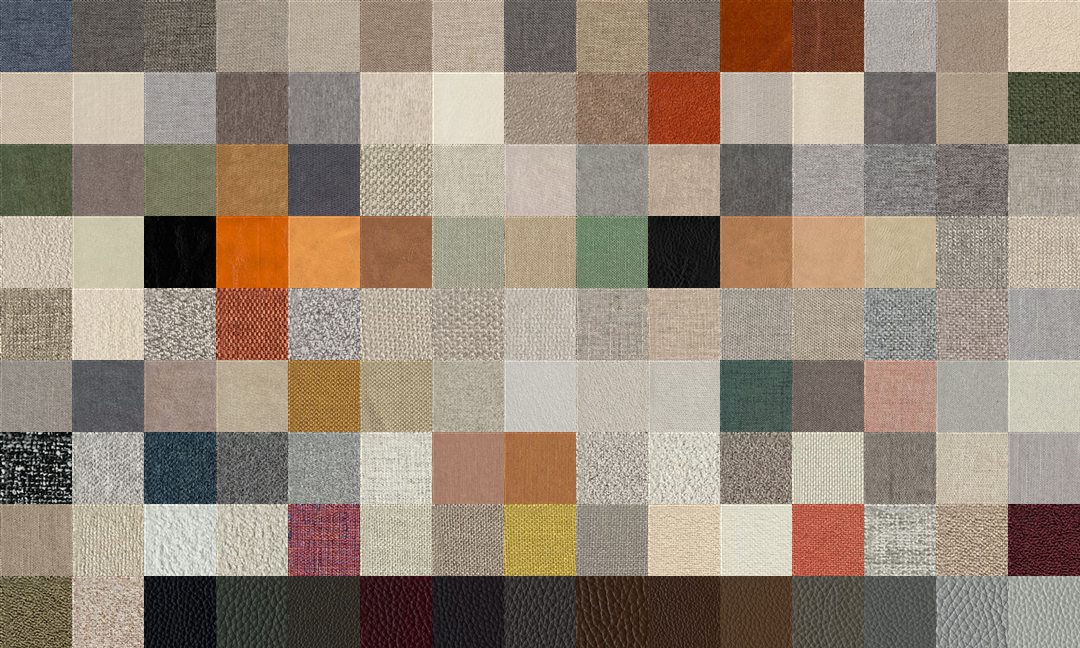
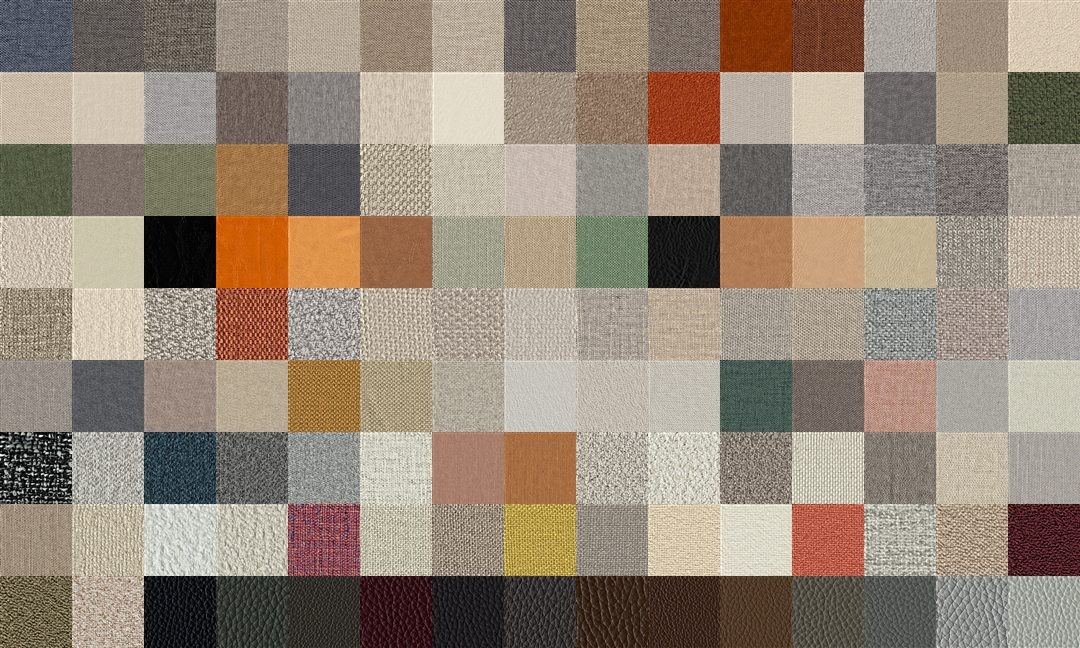
Add files via upload

diff --git a/kf/catalogo.js b/kf/catalogo.js
@@ -8,8 +8,8 @@ export const KF = {
   selTecido: 'Escolha o tecido (KF):',
   selMetal: 'Escolha o metal (KF)',
   // lado real que a textura cobre, em metros (estimado; a foto do mostruário não tem escala)
-  tile: 0.066,        // tecido: a foto do mostruário mostra ~10 cm (Matheus, 12/11/2026); a textura usa 72% do centro
-  tileCouro: 0.0166,  // couro: tira de ~3 cm de altura; a textura usa ~1,8 cm dela
+  tile: 0.10,         // tecido: pela conta seriam ~0,065 (foto de ~10 cm, uso de 72% do centro), mas Matheus achou a trama pequena demais: aumentado em 13/11/2026
+  tileCouro: 0.0145,  // couro: pela conta ~0,0165; Matheus pediu a textura um pouquinho menor (13/11/2026)
   linhas: [
     ['Essencial', lista('V 3323,S 3322,V 3321,V 3320,V 3319,L 3318,V 3317,V 3316,V 3315,V 3314,B 3313,B 3312,B 3311,S 3310,V 3309,V 3308,V 3307,L 3306,S 3305,L 3304,B 3303,B 3302,B 3301,L 3299,V 3283,L 3174,L 2045,L 2044,L 2043,L 2042,L 2041,L 2040,L 217,L 216,L 214')],
     ['Standard', lista('B 6363,B 6362,B 6361,L 6360,L 6359,L 6355,L 6354,L 6346,L 6345,L 6344,B 6342,L 6341,L 6332,L 6331,L 6330,L 6327,S 6323,S 5357,S 5356,L 5354,L 5351,L 5350,S 5348,S 5347,S 5346,L 5344,L 5343,L 5333,L 5332,L 5329,L 5327,L 5278,L 5277,B 4402,L 4401,L 4400,B 4399,L 4398,B 4397,B 4396,L 4395,L 4394,L 4393,N 4391,N 4390,N 4389,N 4388,L 4387,L 4386,L 4385,CS 4384,CS 4383,CS 4382,CS 4381,S 4366,B 4364,L 4362,L 4357,L 4356,L 4355,S 4354,S 4353,S 4352,S 4351,L 4341,L 4319')],
